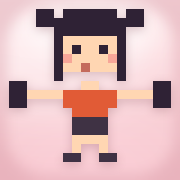
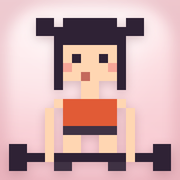
Add files via upload

diff --git a/index.html b/index.html
@@ -760,7 +760,6 @@
         <span><i class="cellsw" style="background:var(--personal)"></i>개인운동</span>
         <span><i class="cellsw" style="background:var(--pt)"></i>PT</span>
         <span><i class="dot" style="background:var(--diet)"></i>식단</span>
-        <span><i class="dot" style="background:var(--water)"></i>물</span>
         <span><i class="dot" style="background:var(--supp)"></i>영양제</span>
         <span><i class="dot" style="background:var(--inbody)"></i>인바디 (날짜 옆)</span>
       </div>
@@ -2236,7 +2235,6 @@ function renderCalendar(){
         (Array.isArray(d.snacks) && d.snacks.some(sn=>sn && sn.text)) ||
         (typeof d.breakfast==='string' && (d.breakfast||d.lunch||d.dinner||d.snack)));
       if(hasDiet) marks.push({c:'var(--diet)', t:'식단'});
-      if(log.water && log.water.ml>0) marks.push({c:'var(--water)', t:'물'});
       if(log.supplementsTaken && log.supplementsTaken.length) marks.push({c:'var(--supp)', t:'영양제'});
     }
     // 좁은 화면은 칸이 작아 점 2개까지만 (그 이상은 +N)
